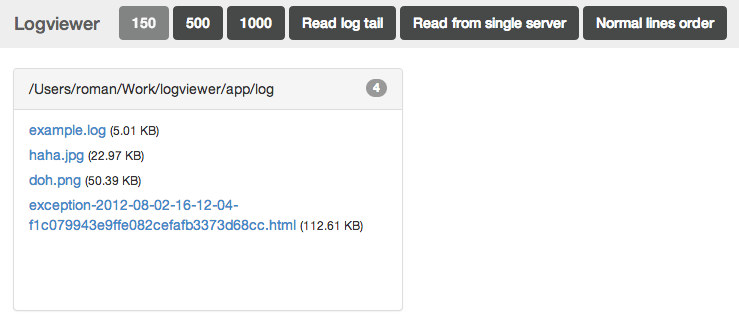
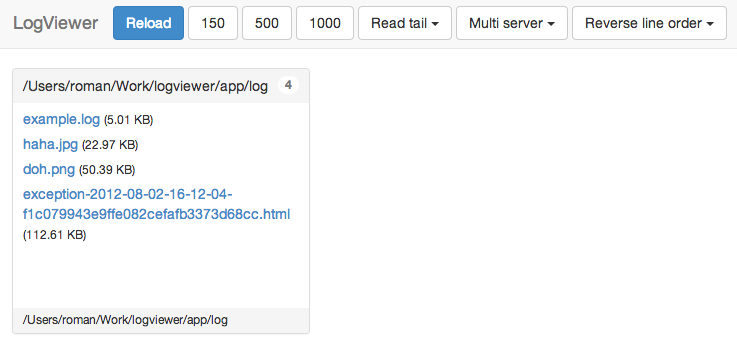
Add new examples

diff --git a/README.md b/README.md
@@ -9,9 +9,10 @@ Download repo and change conf/config.php or create conf/local.php and overwrite 
 ## Examples
 
 ![LogViewer](https://raw.github.com/wikidi/logviewer/master/doc/example.png "Example")
-![Log Output example](https://raw.github.com/wikidi/logviewer/master/doc/example1.png "Example")
+![LogViewer Menu](https://raw.github.com/wikidi/logviewer/master/doc/example1.png "Example")
 ![Log Output example](https://raw.github.com/wikidi/logviewer/master/doc/example2.png "Example")
 ![Log Output example](https://raw.github.com/wikidi/logviewer/master/doc/example3.png "Example")
+![Log Output example](https://raw.github.com/wikidi/logviewer/master/doc/example4.png "Example")
 
 ## Install
 
